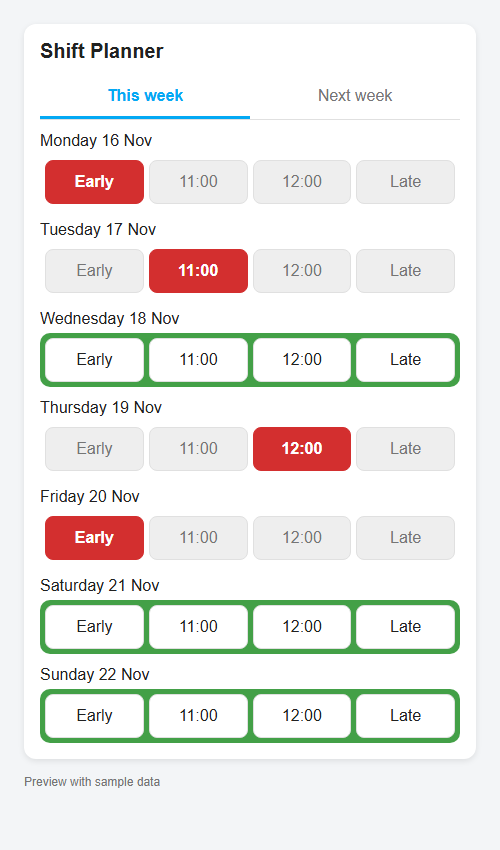
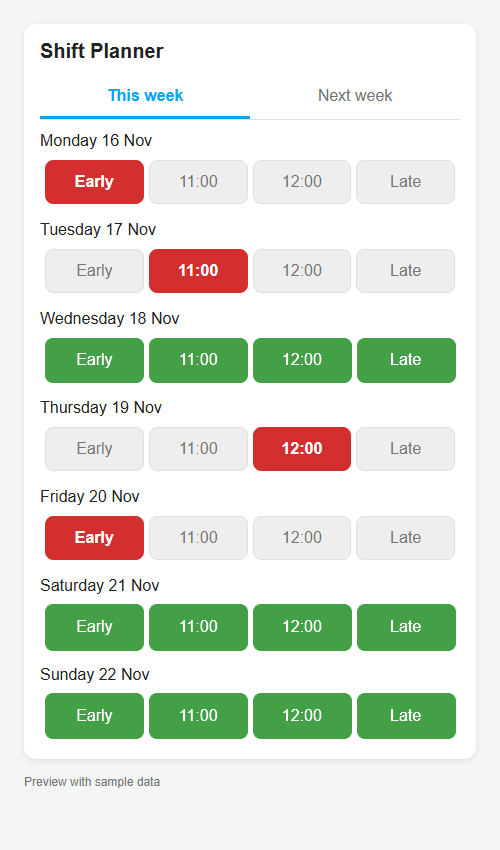
Enhance Shift Planner Card functionality to support updating shifts and update README with new usage instructions

Changed region(s): [[0.06, 0.7035, 0.93, 0.8871], [0.06, 0.3671, 0.93, 0.4588]]

diff --git a/dist/shift-planner-card.js b/dist/shift-planner-card.js
@@ -226,13 +226,18 @@ class ShiftPlannerCard extends HTMLElement {
           padding: 5px;
           border-radius: 10px;
         }
-        .free {
+        .free button {
           background: var(--success-color, #43a047);
+          color: #ffffff;
+          border-color: var(--success-color, #43a047);
         }
         .occupied button {
           background: var(--secondary-background-color, #eeeeee);
           color: var(--secondary-text-color, #757575);
           opacity: 1;
+        }
+        .occupied button:not(:disabled):not(.match):hover {
+          border-color: var(--primary-color);
         }
         .row .match {
           background: #d32f2f;
@@ -305,6 +310,7 @@ class ShiftPlannerCard extends HTMLElement {
 
         for (const day of days) {
             const occupied = day.summaries.length > 0;
+            const updatable = day.summaries.length === 1;
             const section = this._element("section", undefined, "day");
 
             const date = new Date(`${day.date}T12:00:00Z`);
@@ -334,7 +340,9 @@ class ShiftPlannerCard extends HTMLElement {
                 );
 
                 button.disabled =
-                    occupied || this._busy || this._preview === true;
+                    (occupied && (!updatable || selected)) ||
+                    this._busy ||
+                    this._preview === true;
                 button.setAttribute("aria-pressed", String(selected));
                 const timeRange = shift.end
                     ? `${shift.start}-${shift.end}`
@@ -342,11 +350,15 @@ class ShiftPlannerCard extends HTMLElement {
                 button.title = `${shift.id}, ${timeRange}`;
 
                 button.onclick = () => this._run(() =>
-                    this._hass.callService("shift_planner", "create_shift", {
-                        config_entry_id: attributes.config_entry_id,
-                        date: day.date,
-                        shift: shift.id,
-                    })
+                    this._hass.callService(
+                        "shift_planner",
+                        occupied ? "update_shift" : "create_shift",
+                        {
+                            config_entry_id: attributes.config_entry_id,
+                            date: day.date,
+                            shift: shift.id,
+                        }
+                    )
                 );
 
                 row.append(button);

diff --git a/README.md b/README.md
@@ -8,9 +8,11 @@ Requires the [Shift Planner integration](https://github.com/mrunde/ha-shift-plan
 to be installed and configured in Home Assistant.
 
 Switch between weeks using the tabs. Selected shifts have a red background and
-white text; other shifts on the same day are greyed out and cannot be selected.
-Days without a shift remain green and allow you to create a shift. The card
-updates automatically when its Home Assistant sensor changes.
+white text. Days without an event remain green and allow you to create a shift.
+On a day with exactly one event, choose another shift to update that event in
+place; days with multiple events cannot be updated. Updating shifts requires
+version 0.3.0 or later of the integration. The card updates automatically when
+its Home Assistant sensor changes.
 
 Shift buttons are populated from the shifts configured in the integration.
 Their configured start and end times are shown in the button tooltip.
